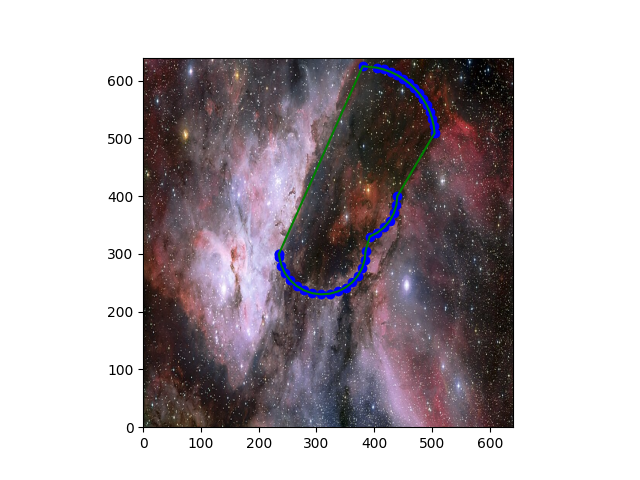
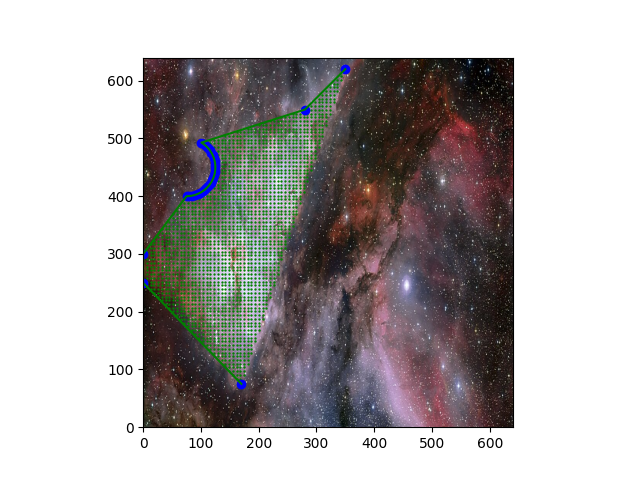
tochki

Changed region(s): [[0.2188, 0.125, 0.6875, 0.8125], [0.625, 0.3438, 0.6562, 0.4062]]

diff --git a/Nebulas/stage_3/slide_2_point_in_nebula.py b/Nebulas/stage_3/slide_2_point_in_nebula.py
@@ -3,7 +3,7 @@ from scipy import interpolate
 import matplotlib.pyplot as plt
 import shapely.geometry as geom
 
-img = plt.imread("Barnard_68_nebula.jpg")
+img = plt.imread("./image.png")
 fig, ax = plt.subplots()
 ax.imshow(img, extent=[0, 640, 0, 640])
 
@@ -15,23 +15,25 @@ def circle(R, x0, y0, starst, stop, step):
     return x, y
 
 
-x = np.array([230, 240])
-y = np.array([420, 290])
+# x = np.array([x0, x1]) 
+# y = np.array([y0, y1]) 
 
-coords = circle(35, 180, 210, np.pi/2+np.pi/4, 3*np.pi/2, 0.1)
+# coords = circle(r, x0, y0, start, stop, step)
+# x = np.append(x, coords[0])
+# y = np.append(y, coords[1])
+
+x = np.array([170, 0, 0, 75]) 
+y = np.array([75, 250, 300, 400]) 
+
+coords = circle(50, 75, 450, np.pi*3/2+0.1, 2*np.pi + np.pi/2-0.5, 0.1)
 x = np.append(x, coords[0])
 y = np.append(y, coords[1])
 
-x = np.append(x, [180, 280])
-y = np.append(y,  [175, 220])
+x = np.append(x, 280) 
+y = np.append(y, 550) 
 
-coords = circle(150, 300, 370, np.pi+np.pi/2.15, 2*np.pi-np.pi/6, 0.1)
-x = np.append(x, coords[0])
-y = np.append(y, coords[1])
-
-coords = circle(120, 320, 345, 2*np.pi-np.pi/6, 2*np.pi+np.pi/1.27, 0.1)
-x = np.append(x, coords[0])
-y = np.append(y, coords[1])
+x = np.append(x, 350) 
+y = np.append(y, 620) 
 
 spline_coords, figure_spline_part = interpolate.splprep([x, y], s=0)
 spline_curve = interpolate.splev(figure_spline_part, spline_coords)
